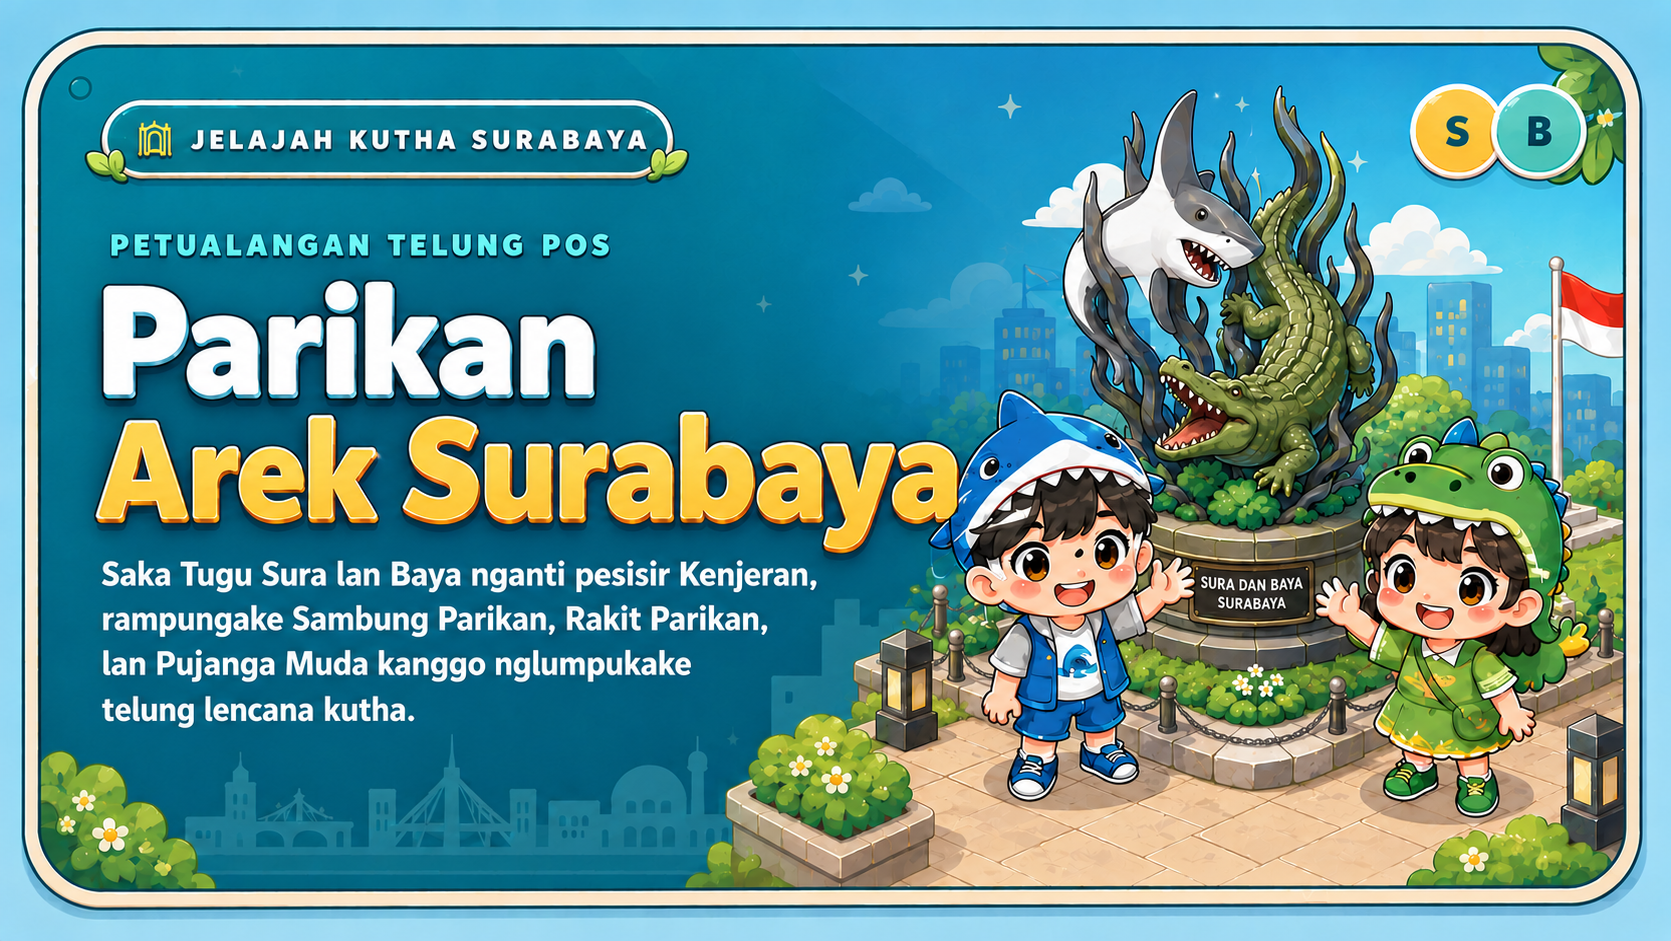
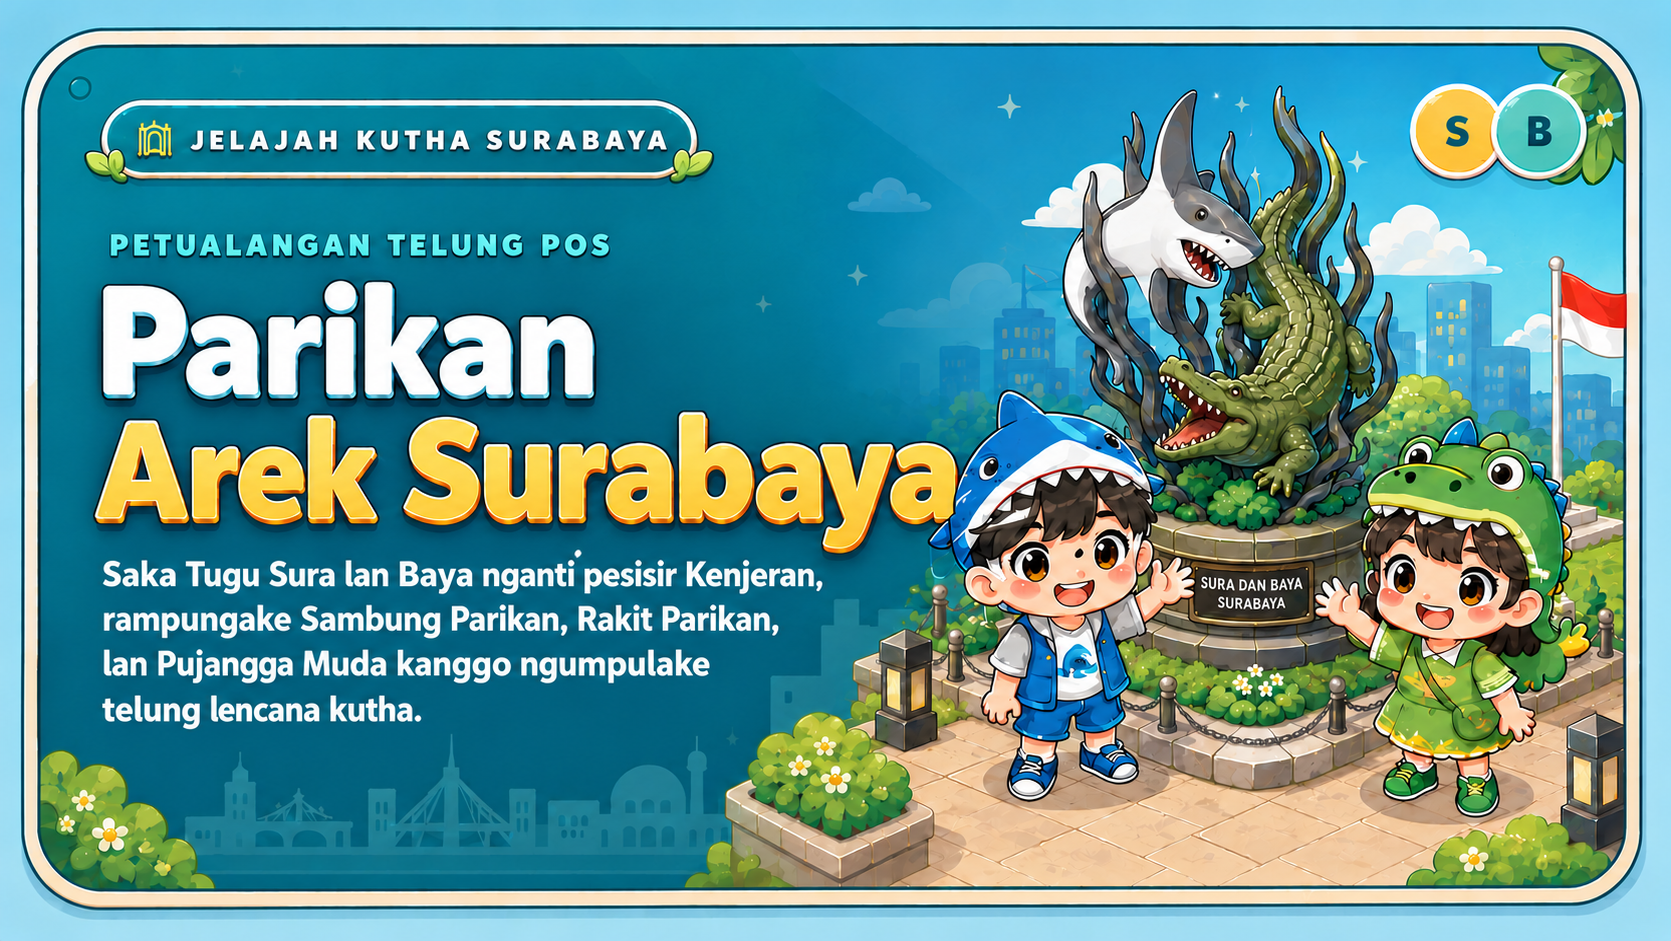
memperbaiki dan mengganti asset gambar

diff --git a/src/data/developerProfile.js b/src/data/developerProfile.js
@@ -38,8 +38,8 @@ export const developerProfile = {
       imageFit: 'object-cover',
       imagePosition: 'object-center',
       details: [
-        '1.	Pangembang pengelaman Pasinaon supaya gampang dimangerteni.',
-        '2.	Mengoptimalake konten, audio lan alur navigasi sajrone aplikasi.',
+        '1.	Ngembangake pengalaman pasinaon supaya luwih gampang dimangerteni.',
+        '2.	Ngoptimalake konten, audio, lan alur navigasi sajrone aplikasi.',
       ],
     },
   ],

diff --git a/src/pages/HomePage.jsx b/src/pages/HomePage.jsx
@@ -94,7 +94,7 @@ export function HomePage({ menuItems, onChooseMenu, onOpenGuide, onOpenPath, stu
           Javanesia
         </h1>
         <p className="mt-4 animate-[fadeInUp_1s_ease-out] text-lg font-bold text-white/85 drop-shadow-md sm:text-xl">
-          Sinau Basa Jawa Kanthi Cara Nyenengake Lan Interaktif
+          Sinau Basa Jawa Kanthi Cara Nyenengake lan Interaktif
         </p>
 
         {/* Greeting siswa */}

diff --git a/src/pages/AboutPage.jsx b/src/pages/AboutPage.jsx
@@ -218,7 +218,7 @@ export function AboutPage() {
           Tentang Pengembang
         </h1>
         <p className="mt-3 max-w-2xl text-sm font-bold leading-relaxed text-white/85">
-          Kaca iki ngemot idhentitas mahasiswa, Dhosen pembimbing, Lan Tim Developer Aplikasi Javanesia
+          Kaca iki ngemot idhentitas mahasiswa, Dhosen pembimbing, lan Tim Developer Aplikasi Javanesia
         </p>
       </header>
 

diff --git a/src/pages/OpeningPage.jsx b/src/pages/OpeningPage.jsx
@@ -73,7 +73,7 @@ export function OpeningPage({ onEnter }) {
             Javanesia
           </h1>
           <p className="text-base font-bold tracking-[0.15em] text-white/85 drop-shadow-md sm:text-lg">
-            Sinau Basa Jawa Kanthi Cara Nyenengake Lan Interaktif
+            Sinau Basa Jawa Kanthi Cara Nyenengake lan Interaktif
           </p>
         </div>
 
